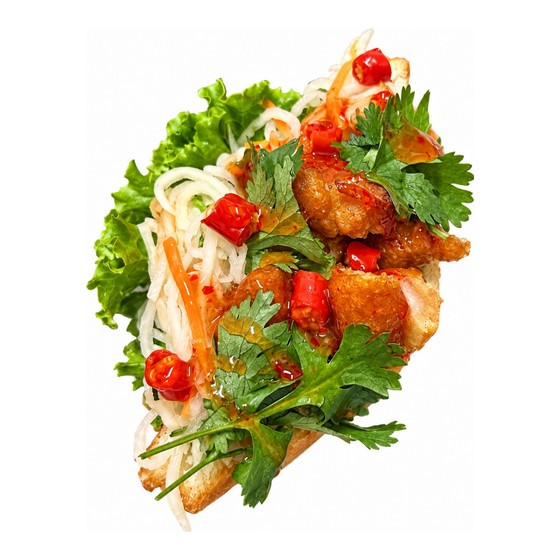
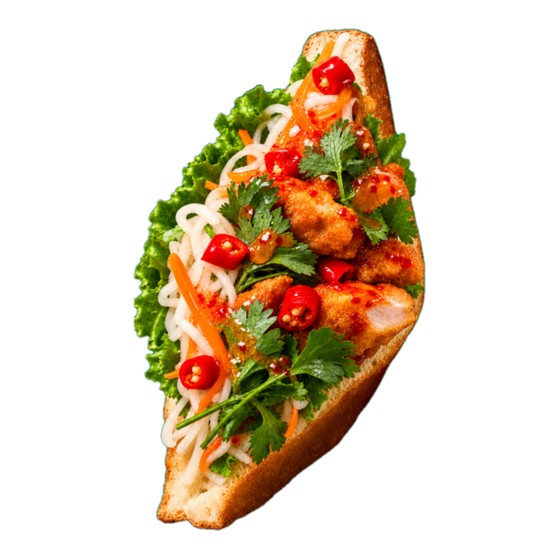
fix: チキンバインミーのヒーロー画像を差し替え（背景を白に切り抜き）
Claude-Session: https://claude.ai/code/session_01Wp3vB6FRfwS6WS9ETNgW7z

diff --git a/age3-recipe-data.js b/age3-recipe-data.js
@@ -30,7 +30,7 @@
    ========================================================================== */
 
 var RECIPE_META = {
-  assetVersion: '20261010a',
+  assetVersion: '20261013a',
   brand: 'Age.3',
   title: 'Age.3 レシピ',
   sub: '揚げサンド スタンダードレシピ',
